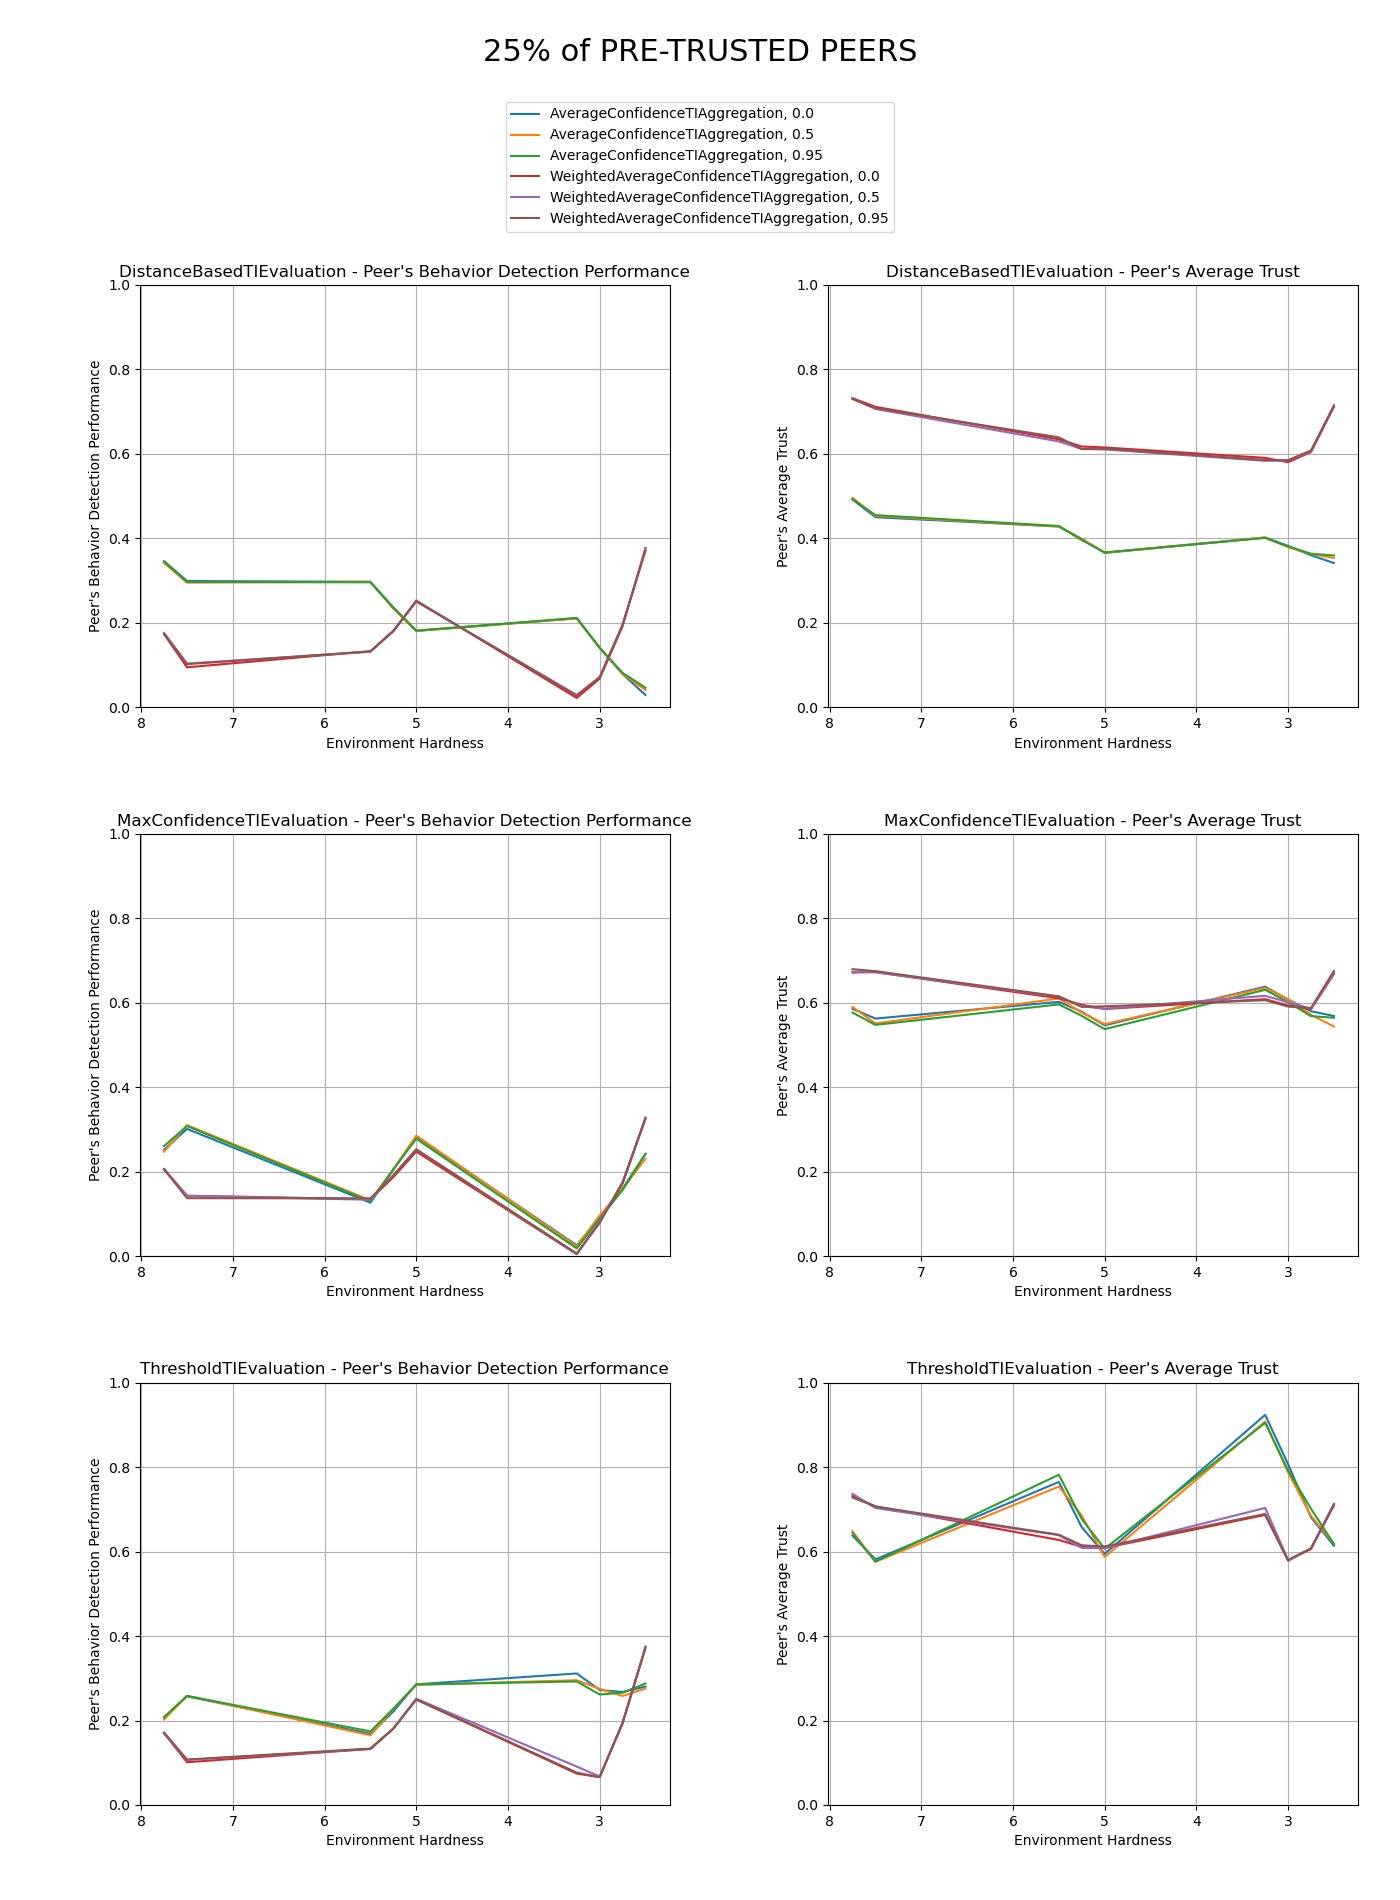
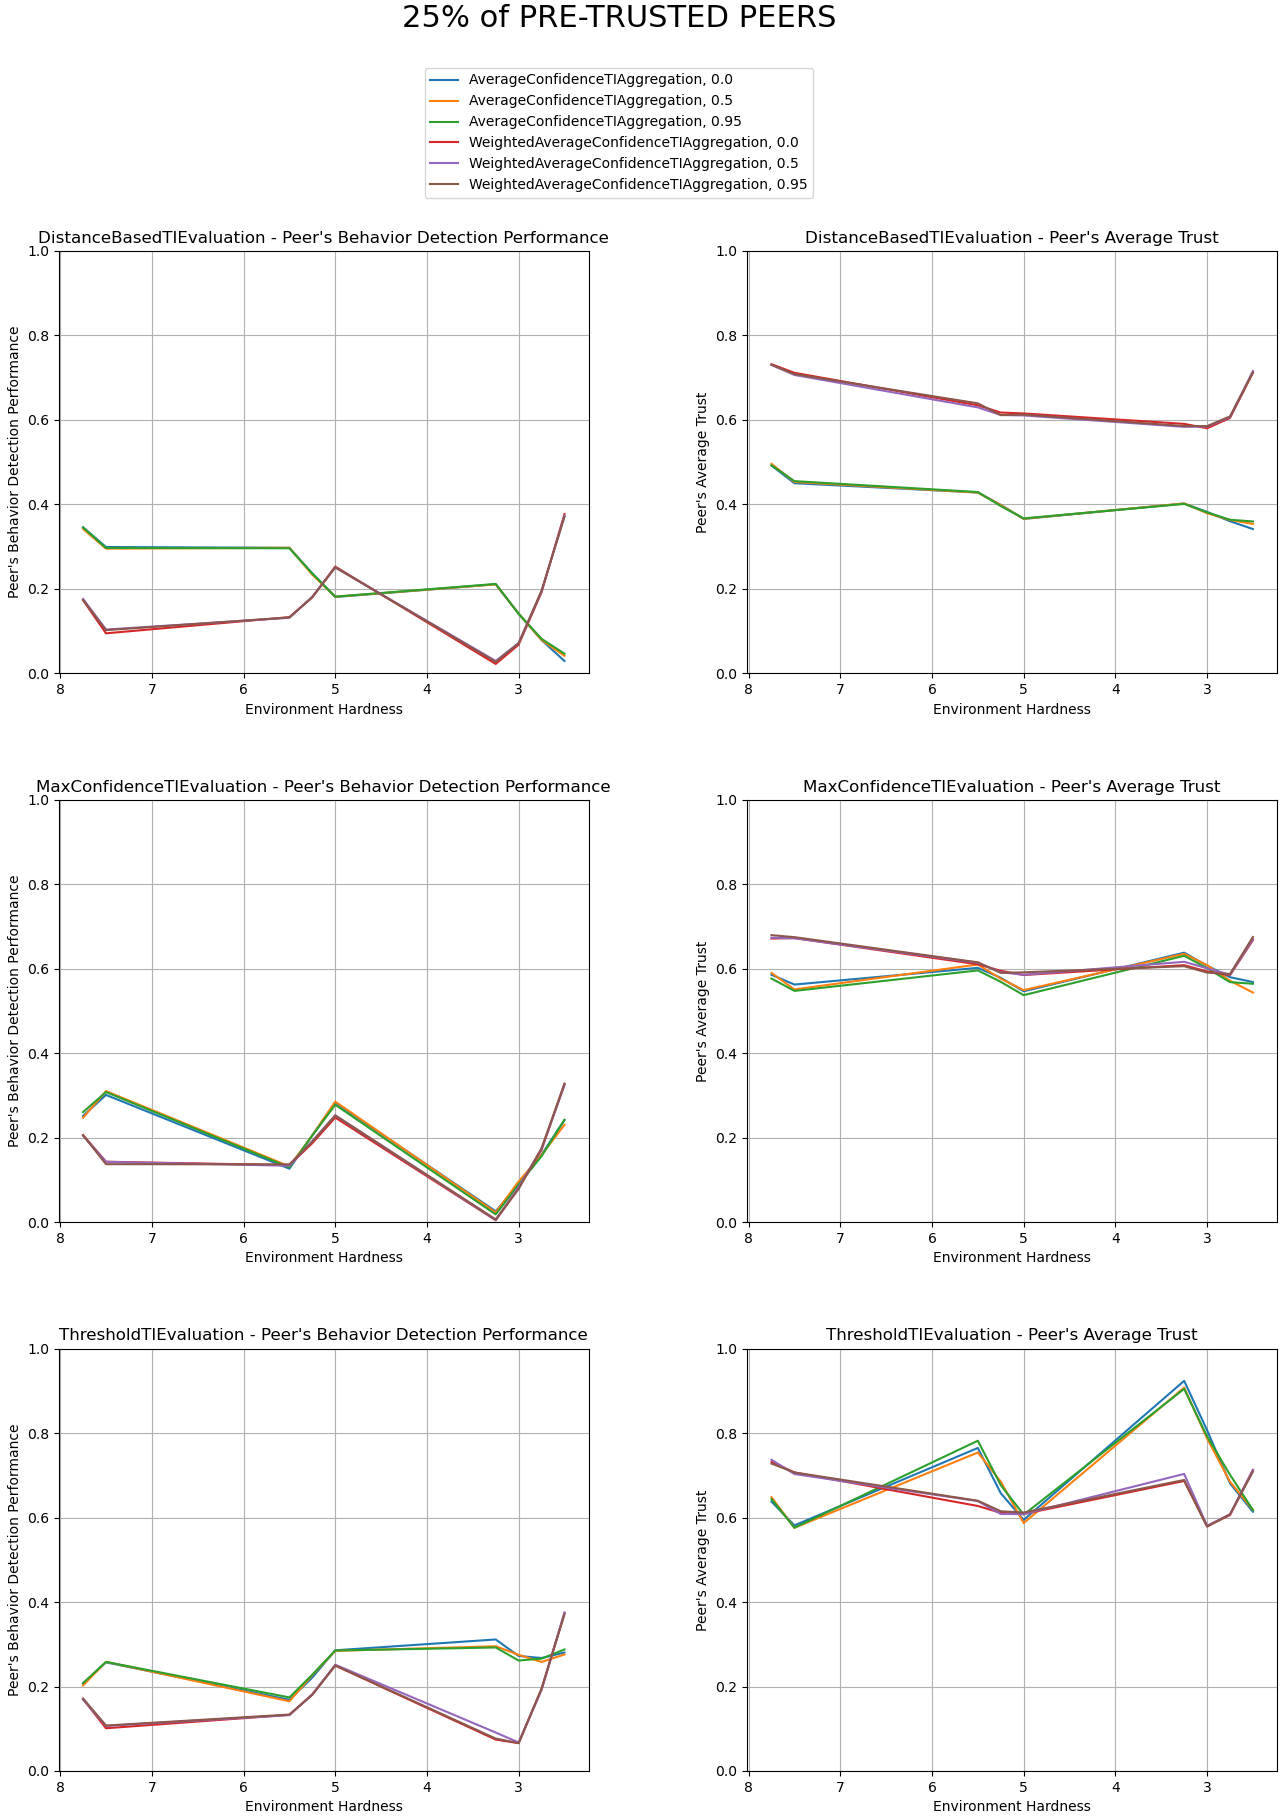
Update on Overleaf.

diff --git a/chapters/chap6-results/resilience.tex b/chapters/chap6-results/resilience.tex
@@ -11,7 +11,7 @@ In this section, we are focusing on finding the best possible combination of par
 
 In this scenario, Fides talks to 25\% of pre-trusted peers with. We simulated environments starting with the 75\% of confident correct peers~(behavior from Section~\ref{subsubsec:confident-correct-peer}) up to 75\% malicious peers~(behavior from Section~\ref{subsubsec:malicious-peer}) and used all possible setups.
 
-
+% TODO: ensure that this appears on the left side and the next subsubsection on the right side
 % \clearpage % check if this appears on the left side 
 \begin{figure}[hp]
     \centering
@@ -22,7 +22,9 @@ In this scenario, Fides talks to 25\% of pre-trusted peers with. We simulated en
 
 \subsubsection{Target Detection Performance}
 \label{subsubsec:target-detection-performance}
-Figure~\ref{fig:25-target-detection} visualizes the target detection performance (Section~\ref{subsec:target-detection-performance-metric}) on three different graphs where each of the graphs is a single interaction evaluation strategy.
+The target detection performance $tdp$ (Section~\ref{subsec:target-detection-performance-metric}) is the most important metric because it evaluates how good is Fides in the target classification.
+
+Figure~\ref{fig:25-target-detection} visualizes the target detection performance on three different graphs where each of the graphs is a single interaction evaluation strategy.
 Each graph then displays dots with different colors. Each color a single threat intelligence aggregation method in combination with different initial reputation value.
 A single dot in the graph is the value of $tdp$ and in a case when the $tdp \geq 1$, it means that Fides made on average the wrong decision about the targets and classified them with the wrong label.
 In other words, if $tdp \geq 1$, Fides classified benign targets as malicious and the other way around.
@@ -36,6 +38,16 @@ Specifically in Figure~\ref{fig:25-target-detection} one can see that until the 
 That changes after the environment hardness $eh \leq 2.5$ when the $ThresholdTIEvaluation$ as well as $MaxConfidenceTIEvaluation$ misclassify the targets and the $tdp \geq 1$. In that case, all threat intelligence aggregation methods are the same and all of them misclassify the targets no matter what initial reputation is used.
 However, the $DistanceBasedTIEvaluation$ strategy in combination with $AverageConfidenceTIAggregation$ method is able to still classify the targets correctly and maintain the $tdp \leq 1$ even under toughest conditions where there are 75\% of adversarial peers in the simulation.
 
+% TODO: ensure that this appears on the left side and the next subsubsection on the right side
+\begin{figure}[hp]
+    \centering
+    \includegraphics[height=0.95\textheight]{assets/25_peer_trust.png}
+    \caption{Target detection possibility.}
+    \label{fig:25-peer-trust}
+\end{figure}
+
+\subsubsection{Peers Behavior Detection Performance}
+Figure~\ref{fig:25-peer-trust} displays two important metrics which are related to 
 
 % There are three rows and four columns. Each row contains a single interaction evaluation strategy (Section~\ref{sec:interaction-evaluation-strategies}) and each column contains a single metric that evaluates the behavior of that strategy in the network.
 % There are three different metrics that evaluate the performance of the Fides's setup and the last graph displays how many confident correct (Section~\ref{subsubsec:confident-correct-peer}) peers there are in the network.
